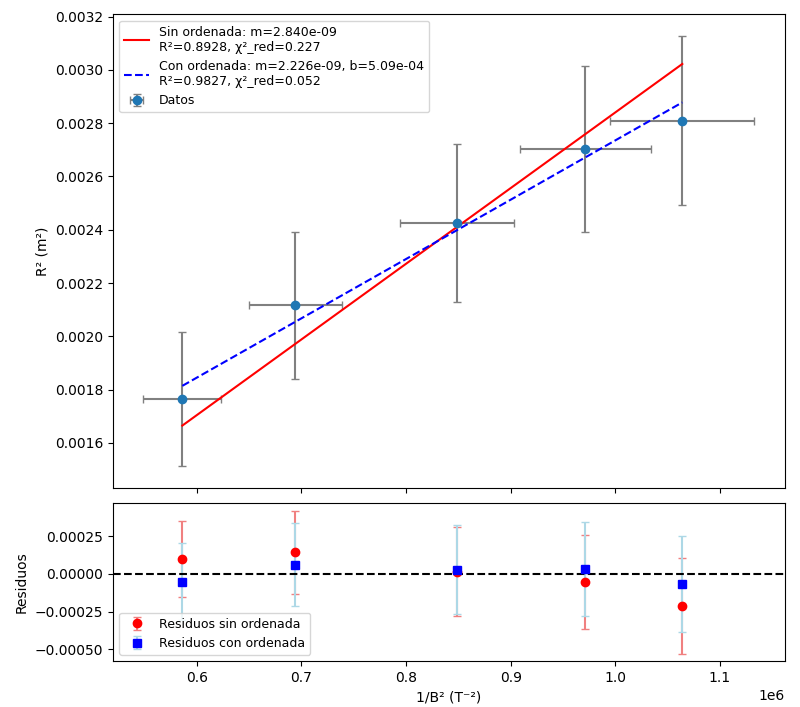
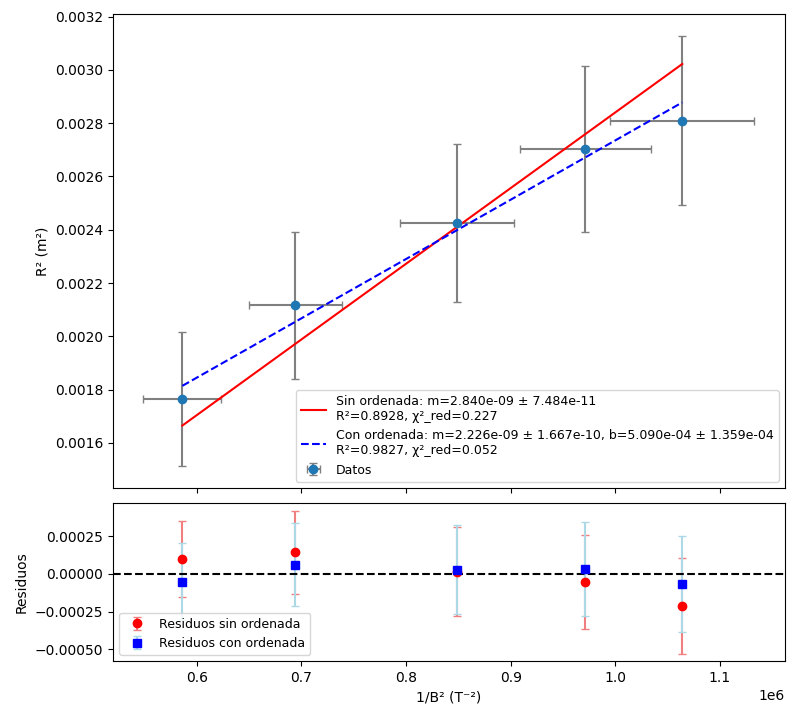
Agregado código experimento II

Changed region(s): [[0.375, 0.5601, 0.9688, 0.6846], [0.1562, 0.0311, 0.4375, 0.1556]]

diff --git a/Experimento III/datos.py b/Experimento III/datos.py
@@ -1,0 +1,208 @@
+import numpy as np
+import matplotlib.pyplot as plt
+from scipy.odr import ODR, Model, RealData
+def fit_lineal(Vs, f, scale=1e14):
+    """
+    Ajuste lineal ODR con errores en V (3% + 0.01) y en f (típico 1e8),
+    devuelve m, sm, b, sb, chi2 reducido y R2
+    """
+    Vs = np.array(Vs, dtype=float)
+    f = np.array(f, dtype=float)
+
+    # Errores
+    errV = 0.03 * Vs + 0.01
+    errF = np.full_like(f, 1e8, dtype=float)
+
+    # Escalado
+    f_scaled = f / scale
+    errF_scaled = errF / scale
+
+    # Modelo lineal
+    def f_lineal(beta, x):
+        m, b = beta
+        return m * x + b
+
+    modelo = Model(f_lineal)
+    data = RealData(f_scaled, Vs, sx=errF_scaled, sy=errV)
+    beta0 = [4.14e-15 * scale, 0.0]
+
+    odr = ODR(data, modelo, beta0=beta0)
+    out = odr.run()
+
+    m_scaled, b = out.beta
+    sm_scaled, sb = out.sd_beta
+
+    m, sm = m_scaled / scale, sm_scaled / scale
+
+    # Chi² reducido
+    chi2_red = out.res_var  # varianza residual reducida
+
+    # R²
+    y_mean = np.mean(Vs)
+    ss_tot = np.sum((Vs - y_mean) ** 2)
+    ss_res = np.sum(out.delta ** 2)
+    r2 = 1 - ss_res / ss_tot
+
+    return m, sm, b, sb, chi2_red, r2
+
+
+def analisis_tres_series(f, sin_filtro, con_filtro, pasco, scale=1e14, label="", nombres_colores=None):
+    datasets = {
+        "Datos - sin filtro": sin_filtro,
+        "Datos - con filtro": con_filtro,
+        "Datos - con filtro PASCO": pasco
+    }
+
+    colores = ["tab:blue", "tab:orange", "tab:green"]
+    marcadores = ["D", "s", "v"]       # círculo, cuadrado, diamante
+    tamanios = [6, 6, 6]               # tamaños ligeramente distintos
+
+    plt.figure(figsize=(7, 6))
+
+    resultados = {}
+    funcion_label_agregada = False
+
+    for (nombre, Vs), color, marker, msize in zip(datasets.items(), colores, marcadores, tamanios):
+        m, sm, b, sb, chi2_red, r2 = fit_lineal(Vs, f, scale=scale)
+
+        resultados[nombre] = {
+            "m": m, "sm": sm,
+            "b": b, "sb": sb,
+            "chi2_red": chi2_red,
+            "R2": r2
+        }
+
+        # Dibujar puntos
+        errV = 0.03 * np.array(Vs) + 0.01
+        errF = np.full_like(f, 1e8)
+        plt.errorbar(f, Vs, yerr=errV, xerr=errF,
+                     fmt=marker, markersize=msize,
+                     ecolor="gray", capsize=3,
+                     label=f"{nombre}", alpha=0.8, color=color)
+
+        # Dibujar ajuste
+        f_fit = np.linspace(min(f), max(f), 200)
+        Vs_fit = m * f_fit + b
+
+        if not funcion_label_agregada:
+            label_ajuste = f"y = m·f + b"
+            funcion_label_agregada = True
+        else:
+            label_ajuste = None
+
+        plt.plot(f_fit, Vs_fit, "-", color=color,
+                 label=(f"{nombre} ajuste\n"
+                        f"m = {m:.2e}, b = {b:.2f}\n"
+                        f"χ²r = {chi2_red:.2f}, R² = {r2:.3f}" if label_ajuste is None
+                        else f"{label_ajuste}\n{nombre} ajuste\nm = {m:.2e}, b = {b:.2f}\nχ²r = {chi2_red:.2f}, R² = {r2:.3f}"))
+
+    # Decoración
+    titulo = f"Ajuste ODR: Voltaje vs Frecuencia {label}" if label else "Ajuste ODR: Voltaje vs Frecuencia"
+    plt.title(titulo, fontsize=14)
+    plt.xlabel("Frecuencia f (Hz)", fontsize=12)
+    plt.ylabel("Voltaje Vs (V)", fontsize=12)
+    plt.grid(True, alpha=0.3)
+    plt.legend(fontsize=9, loc="best")
+    plt.tight_layout()
+    plt.show()
+
+    return resultados
+
+# =======================
+# Datos en array numpy
+# =======================
+# Columnas: [Frecuencia, Sin filtro, Con filtro, Filtro PASCO]
+data = np.array([
+    [8.20264E+14, 1.76, 1.76, 1.76],
+    [7.40858E+14, 1.52, 1.52, 1.52],
+    [6.87858E+14, 1.31, 1.31, 1.31],
+    [5.48996E+14, 0.92, 0.76, 0.69],
+    [5.18672E+14, 0.95, 0.60, 0.59]
+])
+colores_orden1 = ["Ultra-Violeta", "Violeta", "Azul", "Verde", "Amarillo"]
+
+# Extraer columnas
+frecuencias = data[:, 0]
+sin_filtro  = data[:, 1]
+con_filtro  = data[:, 2]
+filtro_pasco = data[:, 3]
+
+# =======================
+# Llamada a la función para los tres datasets
+# =======================
+resultados = analisis_tres_series(frecuencias, sin_filtro, con_filtro, filtro_pasco, label="Orden 1", nombres_colores=colores_orden1)
+
+
+
+
+# =======================
+# Datos en array numpy (Orden 2)
+# =======================
+# Columnas: [Frecuencia, Sin filtro, Con filtro, Filtro PASCO]
+data_orden2 = np.array([
+    [8.20264E+14, 1.60, 1.76, 1.76],
+    [7.40858E+14, 1.25, 1.52, 1.52],
+    [6.87858E+14, 0.99, 0.99, 0.99],
+    [5.48996E+14, 0.99, 0.66, 0.37],
+    [5.18672E+14, 0.86, 0.36, 0.33]
+])
+
+frecuencias2   = data_orden2[:, 0]
+sin_filtro2    = data_orden2[:, 1]
+con_filtro2    = data_orden2[:, 2]
+filtro_pasco2  = data_orden2[:, 3]
+
+# =======================
+# Ejemplo de uso con analisis_rescalado
+# =======================
+
+# Ajuste Orden 2
+resultados_orden2 = analisis_tres_series(frecuencias2, sin_filtro2, con_filtro2, filtro_pasco2, label="Orden 2")
+
+
+# =======================
+# Datos en array numpy (Orden -1)
+# =======================
+# Columnas: [Frecuencia, Sin filtro, Con filtro, Filtro PASCO]
+data_ordenm1 = np.array([
+    [8.20264E+14, 1.69, 1.69, 1.69],
+    [7.40858E+14, 1.46, 1.46, 1.46],
+    [6.87858E+14, 1.25, 1.25, 1.25],
+    [5.48996E+14, 0.92, 0.75, 0.66],
+    [5.18672E+14, 0.96, 0.50, 0.57]
+])
+
+# Extraer columnas
+frecuencias_m1  = data_ordenm1[:, 0]
+sin_filtro_m1   = data_ordenm1[:, 1]
+con_filtro_m1   = data_ordenm1[:, 2]
+filtro_pasco_m1 = data_ordenm1[:, 3]
+
+# =======================
+# Llamada a la función para los tres datasets
+# =======================
+resultados_ordenm1 = analisis_tres_series(frecuencias_m1, sin_filtro_m1, con_filtro_m1, filtro_pasco_m1, label="Orden -1")
+
+
+# =======================
+# Datos en array numpy (Orden -2)
+# =======================
+# Columnas: [Frecuencia, Sin filtro, Con filtro, Filtro PASCO]
+data_ordenm2 = np.array([
+    [8.20264E+14, 1.76, 1.76, 1.76],
+    [7.40858E+14, 1.39, 1.39, 1.39],
+    [6.87858E+14, 1.18, 1.18, 1.18],
+    [5.48996E+14, 1.47, 1.26, 0.59],
+    [5.18672E+14, 1.15, 0.51, 0.50]
+])
+
+# Extraer columnas
+frecuencias_m2  = data_ordenm2[:, 0]
+sin_filtro_m2   = data_ordenm2[:, 1]
+con_filtro_m2   = data_ordenm2[:, 2]
+filtro_pasco_m2 = data_ordenm2[:, 3]
+
+# =======================
+# Llamada a la función para los tres datasets
+# =======================
+resultados_ordenm2 = analisis_tres_series(frecuencias_m2, sin_filtro_m2, con_filtro_m2, filtro_pasco_m2, label="Orden -2")

diff --git a/Experimento I/código.py b/Experimento I/código.py
@@ -54,7 +54,15 @@ def f1(beta, x):
     return m * x + b
 
 
-def analisis_comparado(serie=1, con_residuos=True):
+def fmt_pm(value, error, sig=3):
+    """Formatea como 'value ± error' en notación científica con `sig` decimales en la mantisa."""
+    # Si alguno es NaN o infinito lo dejamos con formato estándar
+    if not np.isfinite(value) or not np.isfinite(error):
+        return f"{value:.{sig}e} ± {error:.{sig}e}"
+    return f"{value:.{sig}e} ± {error:.{sig}e}"
+
+
+def analisis_comparado(serie=1, con_residuos=True, sig=3):
     # Selección de datos
     if serie == 1:
         datos = serie1
@@ -134,11 +142,17 @@ def analisis_comparado(serie=1, con_residuos=True):
         ax1.errorbar(x, y, xerr=errx, yerr=erry, fmt='o',
                      ecolor="gray", capsize=3, label="Datos")
         xs = np.linspace(x.min(), x.max(), 200)
-        ax1.plot(xs, f0([m0], xs), "r-", 
-                 label=(f"Sin ordenada: m={m0:.3e}\n"
+
+        # Formateo simple "valor ± error"
+        m0_str = fmt_pm(m0, sm0, sig=sig)
+        m1_str = fmt_pm(m1, sm1, sig=sig)
+        b1_str = fmt_pm(b1, sb1, sig=sig)
+
+        ax1.plot(xs, f0([m0], xs), "r-",
+                 label=(f"Sin ordenada: m={m0_str}\n"
                         f"R²={r2_0:.4f}, χ²_red={chi2red_0:.3f}"))
-        ax1.plot(xs, f1([m1, b1], xs), "b--", 
-                 label=(f"Con ordenada: m={m1:.3e}, b={b1:.2e}\n"
+        ax1.plot(xs, f1([m1, b1], xs), "b--",
+                 label=(f"Con ordenada: m={m1_str}, b={b1_str}\n"
                         f"R²={r2_1:.4f}, χ²_red={chi2red_1:.3f}"))
         ax1.set_ylabel(ylabel)
         ax1.legend(loc="best", fontsize=9)
@@ -161,20 +175,18 @@ def analisis_comparado(serie=1, con_residuos=True):
     # --- Resultados ---
     print(f"=== Serie {serie} ===")
     print("Modelo sin ordenada:")
-    print(f"  m = {m0:.6e} ± {sm0:.2e}")
+    print(f"  m = {fmt_pm(m0, sm0, sig=sig)}")
     print(f"  R² = {r2_0:.4f}, χ²_red = {chi2red_0:.3f}")
 
     print("\nModelo con ordenada:")
-    print(f"  m = {m1:.6e} ± {sm1:.2e}, b = {b1:.3e} ± {sb1:.2e}")
+    print(f"  m = {fmt_pm(m1, sm1, sig=sig)}")
+    print(f"  b = {fmt_pm(b1, sb1, sig=sig)}")
     print(f"  R² = {r2_1:.4f}, χ²_red = {chi2red_1:.3f}")
 
     return {
         "sin_ordenada": {"m": m0, "sm": sm0, "r2": r2_0, "chi2_red": chi2red_0},
         "con_ordenada": {"m": m1, "sm": sm1, "b": b1, "sb": sb1, "r2": r2_1, "chi2_red": chi2red_1}
     }
-
-
-
 
 # Ejecución de ejemplo
 res1 = analisis_comparado(serie=1, con_residuos=True)
